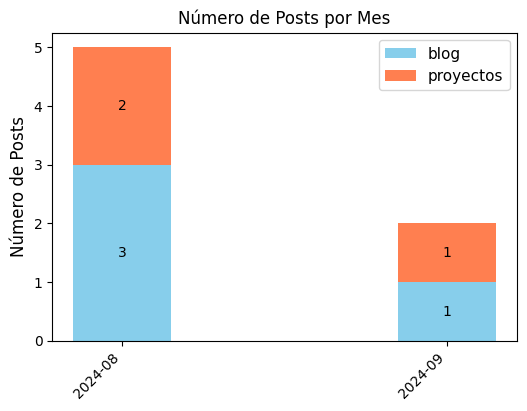
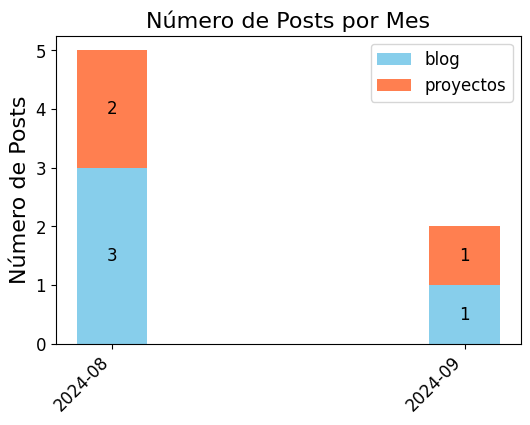
update graph font-size

diff --git a/app.py b/app.py
@@ -33,19 +33,19 @@ def plot_stacked_bar_chart(data):
     # Iterar por cada categoría para apilar las barras
     for i, category in enumerate(categories):
         counts = [data[category].get(month, 0) for month in months]  # Obtener los valores para cada mes
-        p = ax.bar(months, counts, bottom=bottom, label=category, width=0.3, color=colors[i % len(colors)])  # Agregar la barra
+        p = ax.bar(months, counts, bottom=bottom, label=category, width=0.2, color=colors[i % len(colors)])  # Agregar la barra
         bottom += np.array(counts)  # Actualizar el bottom para la próxima barra
-        ax.bar_label(p, label_type='center', fontsize=10)
+        ax.bar_label(p, label_type='center', fontsize=12)
         
 
     # Configurar etiquetas y título
     # ax.set_xlabel('Mes', fontsize=12)
-    ax.set_ylabel('Número de Posts', fontsize=12)
-    ax.set_title('Número de Posts por Mes', fontsize=12)
+    ax.set_ylabel('Número de Posts', fontsize=16)
+    ax.set_title('Número de Posts por Mes', fontsize=16)
 
     # Configurar el tamaño de los ticks del eje X y Y
-    ax.tick_params(axis='x', labelsize=10)  # Tamaño de los valores en el eje X
-    ax.tick_params(axis='y', labelsize=10)  # Tamaño de los valores en el eje Y
+    ax.tick_params(axis='x', labelsize=12)  # Tamaño de los valores en el eje X
+    ax.tick_params(axis='y', labelsize=12)  # Tamaño de los valores en el eje Y
     # Mostrar la leyenda con un tamaño personalizado
 
     # Ajusta la rotación y la alineación de las etiquetas del eje x (meses) para mejorar la legibilidad y evitar que se superpongan.
@@ -55,7 +55,7 @@ def plot_stacked_bar_chart(data):
     # plt.subplots_adjust(left=0.1, bottom=0.3, right=0.9, top=0.9)
 
     # Mostrar la leyenda
-    ax.legend(fontsize=11)  # Tamaño de la leyenda
+    ax.legend(fontsize=12)  # Tamaño de la leyenda
 
 
     # Mostrar la gráfica en Streamlit
